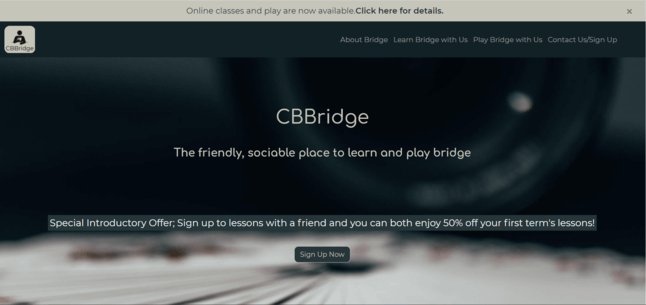
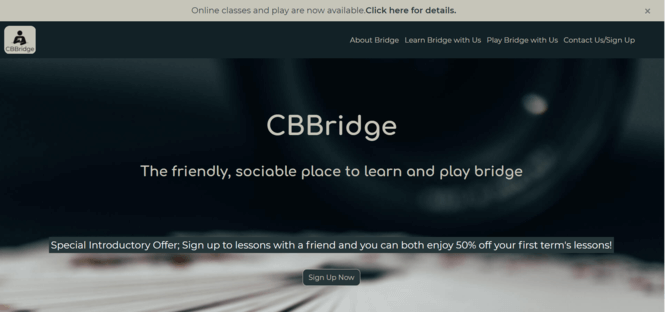
Upload new screenshot-callout.png

diff --git a/index.html b/index.html
@@ -68,7 +68,7 @@
                             <div id="homepage-link">
                                 <p></p>
                             </div>
-                            <h1 class="display-4">CBBridge</h1>
+                            <h1>CBBridge</h1>
                             <h2>The friendly, sociable place to learn and play bridge</h2>
                         </div>
                     </div>

diff --git a/assets/css/style.css b/assets/css/style.css
@@ -15,6 +15,14 @@ h2 {
     font-weight: 600;
 }
 
+h1 {
+    font-size: 75px;
+}
+
+h2 {
+    font-size: 40px;
+}
+
 .btn {
     color: #c6c5b9;
     background-color: #263538;
